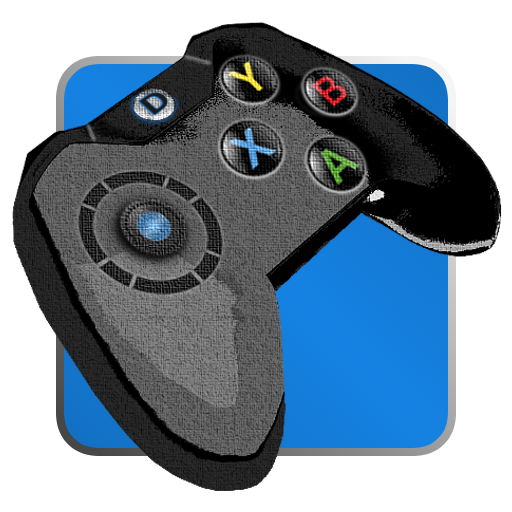
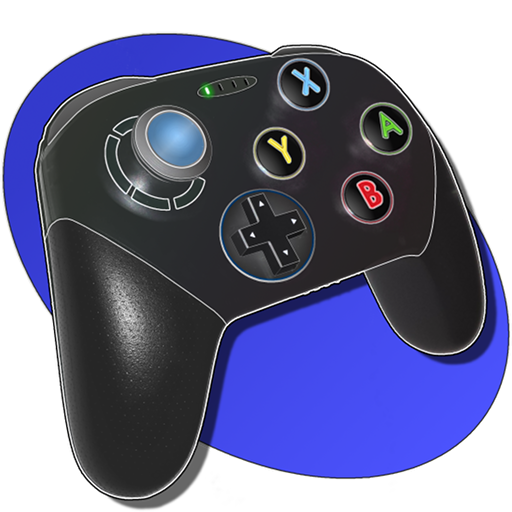
+) Update images in about me

diff --git a/index.html b/index.html
@@ -134,7 +134,7 @@
 										<header>
 											<h3>Web development</h3>
 										</header>
-										<p class="skillText">ASP.NET, JavaScript, jQuery, HTML, CSS, Grunt</p>
+										<p class="skillText">ASP.NET, JavaScript, jQuery, Node.js, HTML, CSS, Grunt, Gulp</p>
 									</article>
 								</div>
 							</div>
@@ -153,7 +153,7 @@
 							<a href="#" class="image featured"><img src="images/pic08.jpg" alt="" /></a>
 							
 							<p>Currently I'm working as a software engineer at the company Frequentis AG in Vienna. I hold a
-                            master degree in Computer Science from the University of Applied Sciences in Wiener Neustadt. In my spare time  I'm a passionate Android developer, always looking for new challenges and ideas. In addition to the programming
+                            Master degree in Computer Science from the University of Applied Sciences in Wiener Neustadt. In my spare time  I'm a passionate Android developer, always looking for new challenges and ideas. In addition to the programming
                             I like to meet friends, go out and have some fun.</p>
 						</div>
 					</section>
@@ -166,10 +166,9 @@
                             <h2>Projects</h2>
                         </header>
 
-                        <p>Below you can see some of my published projects. If you would like to know more about
+                        <p>You can find some of my published projects below. If you would like to learn more about
                             <a title="DroidRemote subpage" href="droidRemote.html" ><strong>DroidRemote</strong></a> or
-                            <a title="DroidJoy subpage" href="droidJoy.html"><strong>DroidJoy</strong></a> please visit the specific subpage. There you can
-                            find detailed information and the download links for the software and applications.</p>
+                            <a title="DroidJoy subpage" href="droidJoy.html"><strong>DroidJoy</strong></a>, visit the specific subpage.</p>
 
                         <div class="row">
                             <div class="4u">
@@ -209,7 +208,7 @@
 								<h2>Contact</h2>
 							</header>
 
-							<p>If you have any questions or suggestions for improvement about one of my projects please
+							<p>If you have any questions or suggestions for improvements about one of my projects please
                                 don't hesitate to contact me. You can find my E-Mail address below. I will try
                                 to answer as soon as possible.</p>
 
